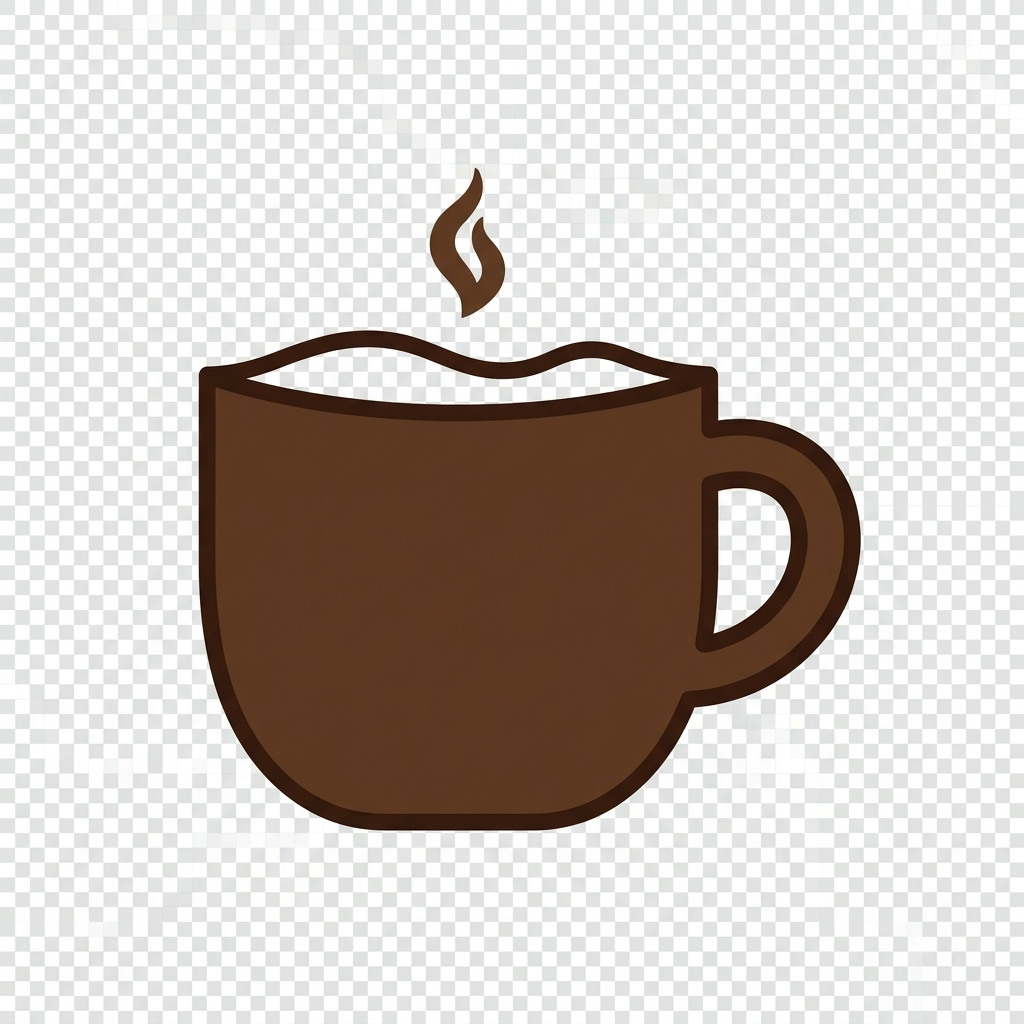
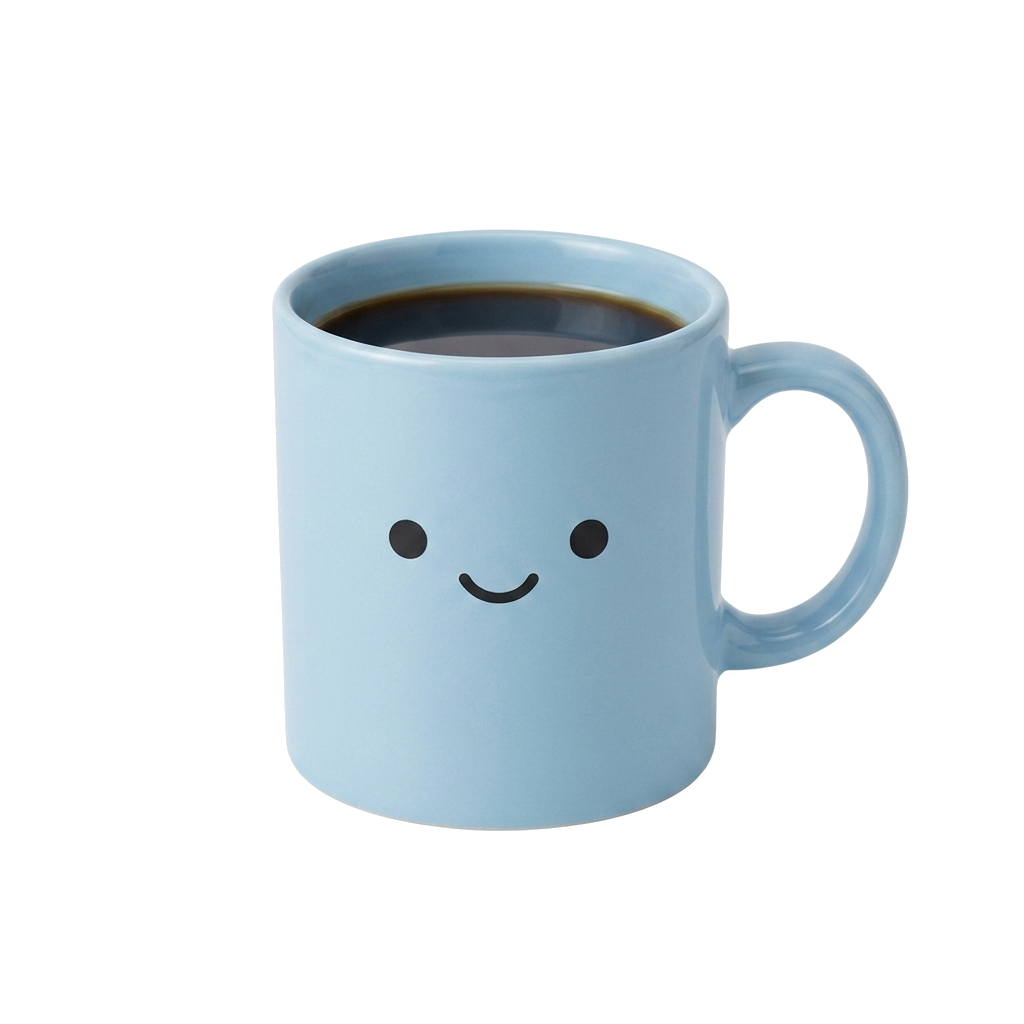
UI: 커스텀 커피컵 아이콘 누끼 작업 및 크기 조정
- 커피컵 아이콘(assets/coffee_cup_icon.png)의 배경을 투명하게 누끼 처리하여 업데이트

- 추출 기록 화면의 평가 아이콘 크기를 기존 대비 2배(14 -> 28) 확대하여 가시성 개선

- 새 추출 기록 등록 화면에 투명도(Opacity) 효과 적용하여 커피컵 아이콘 고유의 디자인 유지

diff --git a/lib/brew_registration_screen.dart b/lib/brew_registration_screen.dart
@@ -151,11 +151,13 @@ class _BrewRegistrationScreenState extends State<BrewRegistrationScreen> {
                 mainAxisAlignment: MainAxisAlignment.center,
                 children: List.generate(5, (index) {
                   return IconButton(
-                    icon: Image.asset(
-                      'assets/coffee_cup_icon.png',
-                      width: 32,
-                      height: 32,
-                      color: index < _rating ? const Color(0xFF8B6B46) : CupertinoColors.systemGrey4,
+                    icon: Opacity(
+                      opacity: index < _rating ? 1.0 : 0.3,
+                      child: Image.asset(
+                        'assets/coffee_cup_icon.png',
+                        width: 32,
+                        height: 32,
+                      ),
                     ),
                     onPressed: () {
                       setState(() {

diff --git a/lib/brew_history_screen.dart b/lib/brew_history_screen.dart
@@ -124,7 +124,7 @@ class BrewHistoryScreen extends StatelessWidget {
               ),
               Row(
                 children: [
-                  const Text('🫘', style: TextStyle(fontSize: 12)),
+                  Image.asset('assets/coffee_cup_icon.png', width: 28, height: 28),
                   const SizedBox(width: 4),
                   Text(
                     rating.toStringAsFixed(1),
